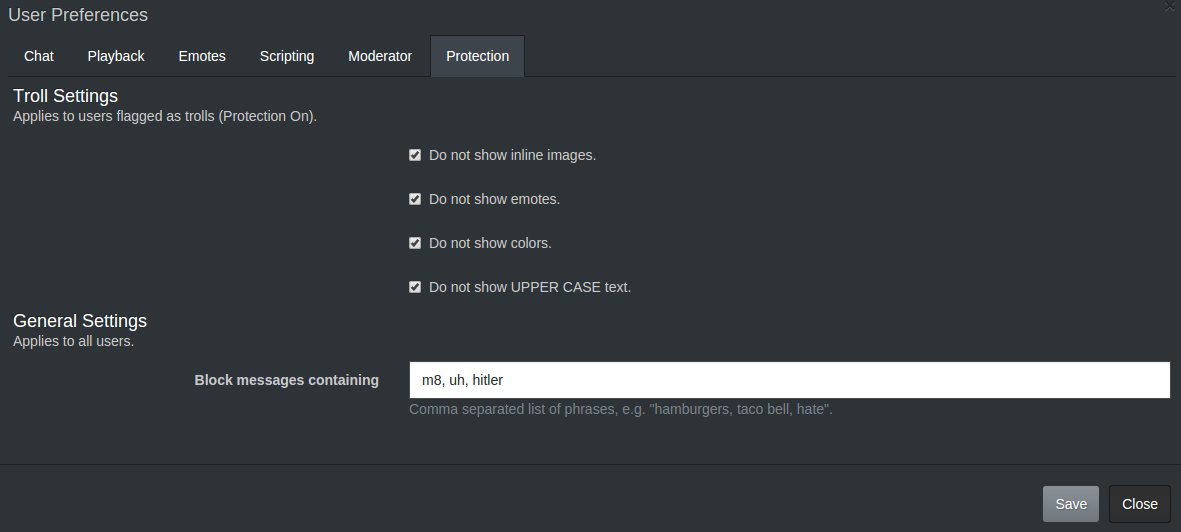
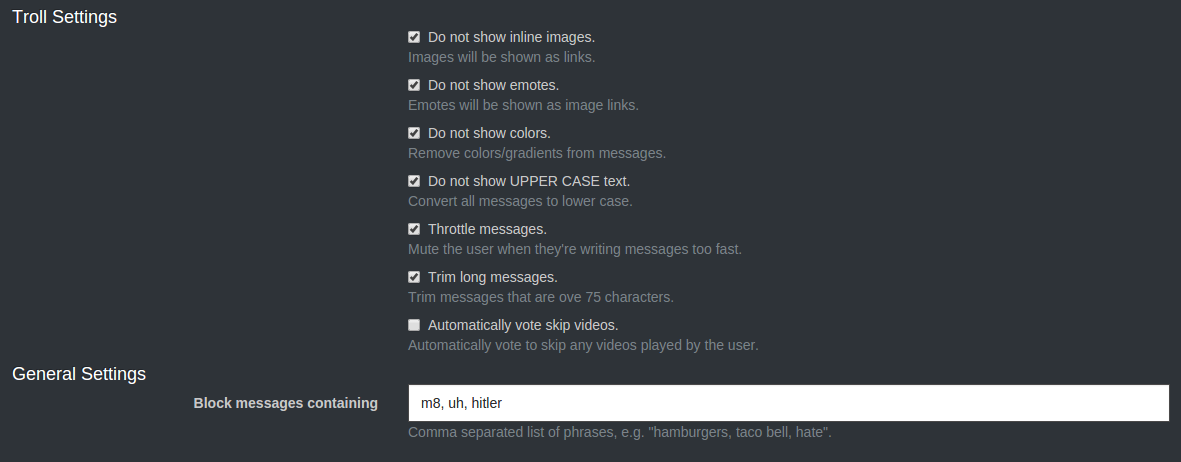
Protection updated to 1.9

diff --git a/protection.js b/protection.js
@@ -1,22 +1,26 @@
 /**
  * Script: Protection
- * Version: 1.8.2
+ * Version: 1.9
  *
  * Provides protection against trolls and other nasty users.
  * 
  * Protection settings are configured by clicking Options -> Protection.
- * Click a user's name in the users list and click "Protection On" to 
+ * Click a user's name in the users list and click "Protection" to 
  * guard against that user.
- * 
- * REFRESH THE PAGE AFTER INSTALLING.
  */
 (function() {
-    var DEFAULTS = {
-        no_images:     true,
-        no_emotes:     true,
-        no_colors:     true,
-        no_upper_case: true,
-        blocked_phrases: ""
+    var BUFFER_SIZE    = 15;
+    var THROTTLE_LIMIT = 3;
+    var TRIM_LENGTH    = 75;
+    var DEFAULTS       = {
+        no_images       : true,
+        no_emotes       : true,
+        no_colors       : true,
+        no_upper_case   : true,
+        throttle        : true,
+        trim            : true,
+        vote_skip       : false,
+        blocked_phrases : ""
     };
     
     var settings = $store.local.get("protection-settings");
@@ -30,6 +34,27 @@
     var no_queue  = $store.local.get("protection-no-queue", []);
     var img_regex = /<img.+?src=[\"'](.+?)[\"'].*?>/g;
     var blocked_phrases_split = [];
+    var buffer = [];
+    
+    // Returns whether the user is the troll list.
+    var isTroll = function(name) {
+        return trolls.indexOf(name) !== -1;
+    };
+    
+    // Adds our custom css to the page.
+    var addStylesheet = function() {
+        $("#us-chat-protection-styles").remove();
+        $(
+            '<style id="us-chat-protection-styles" type="text/css">' +
+            '#us-protection-pane .checkbox { padding-top: 0; } ' +
+            '#us-protection-pane .checkbox .text-muted { margin: 0 0 0 0; } ' +
+            '#us-protection-pane .form-group { margin-bottom: 8px; } ' +
+            '.protection-indicator-active::after { content: "\\2022"; margin-left: 8px; color: #00FF00; } ' +
+            '.protection-indicator-inactive::after { content: "\\2022"; margin-left: 8px; color: #aaa; } ' +
+            '.userlist_item .glyphicon-ban-circle { color: #cc4b4b; padding-right: 2px; } ' +
+            '</style>'
+        ).appendTo($("head"));
+    };
     
     // Adds a "Protection" tab to the user options where the protection
     // settings can be configured.
@@ -59,7 +84,6 @@
         pane.append(form);
         
         form.append($('<h4 style="margin-bottom:0;color:#fff;">Troll Settings</h4>'));
-        form.append($('<p>Applies to users flagged as trolls (Protection On).</p>'));
         $(
             '<div class="form-group">' +
                 '<div class="col-sm-8 col-sm-offset-4">' +
@@ -68,6 +92,7 @@
                             '<input type="checkbox" id="us-protection-settings-no-images" />' +
                             'Do not show inline images.' +
                         '</label>' +
+                        '<p class="text-muted">Images will be shown as links.</p>' +
                     '</div>' +
                 '</div>' +
             '</div>'
@@ -81,6 +106,7 @@
                             '<input type="checkbox" id="us-protection-settings-no-emotes" />' +
                             'Do not show emotes.' +
                         '</label>' +
+                        '<p class="text-muted">Emotes will be shown as image links.</p>' +
                     '</div>' +
                 '</div>' +
             '</div>'
@@ -94,6 +120,7 @@
                             '<input type="checkbox" id="us-protection-settings-no-colors" />' +
                             'Do not show colors.' +
                         '</label>' +
+                        '<p class="text-muted">Remove colors/gradients from messages.</p>' +
                     '</div>' +
                 '</div>' +
             '</div>'
@@ -107,13 +134,55 @@
                             '<input type="checkbox" id="us-protection-settings-no-upper-case" />' +
                             'Do not show UPPER CASE text.' +
                         '</label>' +
+                        '<p class="text-muted">Convert all messages to lower case.</p>' +
+                    '</div>' +
+                '</div>' +
+            '</div>'
+        ).appendTo(form);
+    
+        $(
+            '<div class="form-group">' +
+                '<div class="col-sm-8 col-sm-offset-4">' +
+                    '<div class="checkbox">' +
+                        '<label for="us-protection-settings-throttle">' +
+                            '<input type="checkbox" id="us-protection-settings-throttle" />' +
+                            'Throttle messages.' +
+                        '</label>' +
+                        '<p class="text-muted">Mute the user when they\'re writing messages too fast.</p>' +
+                    '</div>' +
+                '</div>' +
+            '</div>'
+        ).appendTo(form);
+    
+        $(
+            '<div class="form-group">' +
+                '<div class="col-sm-8 col-sm-offset-4">' +
+                    '<div class="checkbox">' +
+                        '<label for="us-protection-settings-trim">' +
+                            '<input type="checkbox" id="us-protection-settings-trim" />' +
+                            'Trim long messages.' +
+                        '</label>' +
+                        '<p class="text-muted">Trim messages that are ove 75 characters.</p>' +
+                    '</div>' +
+                '</div>' +
+            '</div>'
+        ).appendTo(form);
+    
+        $(
+            '<div class="form-group">' +
+                '<div class="col-sm-8 col-sm-offset-4">' +
+                    '<div class="checkbox">' +
+                        '<label for="us-protection-settings-vote-skip">' +
+                            '<input type="checkbox" id="us-protection-settings-vote-skip" />' +
+                            'Automatically vote skip videos.' +
+                        '</label>' +
+                        '<p class="text-muted">Automatically vote to skip any videos played by the user.</p>' +
                     '</div>' +
                 '</div>' +
             '</div>'
         ).appendTo(form);
     
         form.append($('<h4 style="margin-bottom:0;color:#fff;">General Settings</h4>'));
-        form.append($('<p>Applies to all users.</p>'));
         $(
             '<div class="form-group">' +
                 '<label class="control-label col-sm-4" for="us-protection-settings-blocked-phrases">' +
@@ -139,6 +208,9 @@
         settings.no_emotes       = $("#us-protection-settings-no-emotes").is(":checked");
         settings.no_colors       = $("#us-protection-settings-no-colors").is(":checked");
         settings.no_upper_case   = $("#us-protection-settings-no-upper-case").is(":checked");
+        settings.throttle        = $("#us-protection-settings-throttle").is(":checked");
+        settings.vote_skip       = $("#us-protection-settings-vote-skip").is(":checked");
+        settings.trim            = $("#us-protection-settings-trim").is(":checked");
         settings.blocked_phrases = $("#us-protection-settings-blocked-phrases").val().trim();
         splitBlockedPhrases();
     };
@@ -149,6 +221,9 @@
         $("#us-protection-settings-no-emotes").prop("checked", settings.no_emotes);
         $("#us-protection-settings-no-colors").prop("checked", settings.no_colors);
         $("#us-protection-settings-no-upper-case").prop("checked", settings.no_upper_case);
+        $("#us-protection-settings-throttle").prop("checked", settings.throttle);
+        $("#us-protection-settings-vote-skip").prop("checked", settings.vote_skip);
+        $("#us-protection-settings-trim").prop("checked", settings.trim);
         $("#us-protection-settings-blocked-phrases").val(settings.blocked_phrases);
     };
     
@@ -187,6 +262,27 @@
         return msg;
     };
     
+    // Trims long messages.
+    var filterTrim = function(msg) {
+        if (msg.length > TRIM_LENGTH) {
+            msg = msg.substr(0, TRIM_LENGTH) + "...";
+        }
+        return msg;
+    };
+    
+    // Returns whether the given message should be throttled.
+    var shouldThrottle = function(msg) {
+        var name  = msg.username;
+        var count = 0;
+        $each(buffer, function(bmsg) {
+            if (bmsg.username == name) {
+                count++;
+            }
+        });
+        
+        return count > THROTTLE_LIMIT;
+    };
+    
     // Returns whether the message contains a blocked phrase.
     var hasBlockedPhrase = function(msg) {
         var found = false;
@@ -201,13 +297,30 @@
         return found;
     };
     
+    // Add indicator next to each troll. Wait a little bit for the
+    // page to finished loading.
+    setTimeout(function() {
+        $each(trolls, function(name) {
+            $(".userlist_item_" + name + ":first")
+                .addClass("protection-indicator-active");
+        });
+    }, 2000);
+    
     // Filter messages from users that have been put in troll prison.
     $api.on("receive", function(e, data) {
+        buffer.push(data);
+        if (buffer.length > BUFFER_SIZE) {
+            buffer.shift();
+        }
         if (hasBlockedPhrase(data.msg)) {
             return e.cancel();
         }
-        
-        if (trolls.indexOf(data.username.toLowerCase()) !== -1) {
+        if (isTroll(data.username)) {
+            if (shouldThrottle(data)) {
+                console.log("user throttled");
+                return e.cancel();
+            }
+            
             data.meta.no_emotes = settings.no_emotes;
             if (settings.no_colors) {
                 data.msg = filterColors(data.msg);
@@ -218,6 +331,18 @@
             if (settings.no_images) {
                 data.msg = filterImages(data.msg);
             }
+            if (settings.trim) {
+                data.msg = filterTrim(data.msg);
+            }
+        }
+    });
+    
+    // Vote skip troll videos.
+    $api.on("media_change", function(e, data) {
+        if (isTroll(data.queueby) && settings.vote_skip) {
+            setTimeout(function() {
+                $api.skip();
+            }, 2000);
         }
     });
     
@@ -238,22 +363,37 @@
     
     // Add buttons to each profile menu which turns protection on/off.
     $api.on("profile_menu", function(e, menu) {
-        var name      = menu.data("name").toLowerCase();
+        var name = menu.data("name");
+        
         var btn_group = menu.find(".btn-group-vertical:first");
         var btn = $("<button/>")
             .addClass("btn btn-xs btn-default btn-stop-trolling")
             .appendTo(btn_group);
         
+        if (!isTroll(name)) {
+            btn.addClass("protection-indicator-inactive");
+        } else {
+            btn.addClass("protection-indicator-active");
+            $(".userlist_item_" + name + ":first")
+                .addClass("protection-indicator-active");
+        }
+        
         // Add a button to user profile menus to turn trolling protection on and off.
-        btn.text(trolls.indexOf(name) == -1 ? "Protection On" : "Protection Off")
+        btn.text("Protection")
             .click(function () {
                 var index = trolls.indexOf(name);
                 if (index == -1) {
                     trolls.push(name);
-                    btn.text("Protection Off");
+                    $(".userlist_item_" + name + ":first")
+                        .addClass("protection-indicator-active");
+                    btn.removeClass("protection-indicator-inactive")
+                        .addClass("protection-indicator-active");
                 } else {
                     trolls.splice(index, 1);
-                    btn.text("Protection On");
+                    $(".userlist_item_" + name + ":first")
+                        .removeClass("protection-indicator-active");
+                    btn.addClass("protection-indicator-inactive")
+                        .removeClass("protection-indicator-active");
                 }
                 
                 $store.local.set("protection-trolls", trolls);
@@ -262,17 +402,19 @@
         // Gives mods a button to stop the user from adding to the queue.
         if ($user.rank >= 2) {
             var btnq = $("<button/>")
-                .addClass("btn btn-xs btn-default btn-stop-trolling-playlist")
+                .addClass("btn btn-xs btn-default btn-stop-trolling-playlist  protection-indicator-inactive")
                 .appendTo(btn_group);
-            btnq.text(no_queue.indexOf(name) == -1 ? "No Queue On" : "No Queue Off")
+            btnq.text("Playlist Block")
                 .click(function() {
                     var index = no_queue.indexOf(name);
                     if (index == -1) {
                         no_queue.push(name);
-                        btnq.text("No Queue Off");
+                        btnq.removeClass("protection-indicator-inactive")
+                            .addClass("protection-indicator-active");
                     } else {
                         no_queue.splice(index, 1);
-                        btnq.text("No Queue On");
+                        btnq.addClass("protection-indicator-inactive")
+                            .removeClass("protection-indicator-active");
                     }
                     
                     $store.local.set("protection-no-queue", no_queue);
@@ -280,6 +422,7 @@
         }
     });
     
+    addStylesheet();
     removeOptions();
     addOptions();
     updateForm();

diff --git a/index.html b/index.html
@@ -254,7 +254,7 @@
                     <a href="#script-protection-js" class="glyphicon glyphicon-link pull-right" title="Permalink"></a>
                 </h2>
                 <ul class="scripts-meta-list">
-                    <li><strong>Version:</strong> 1.8.2</li>
+                    <li><strong>Version:</strong> 1.9</li>
                     <li><strong>Author:</strong> headzoo</li>
                 </ul>
                 <div class="input-group">
